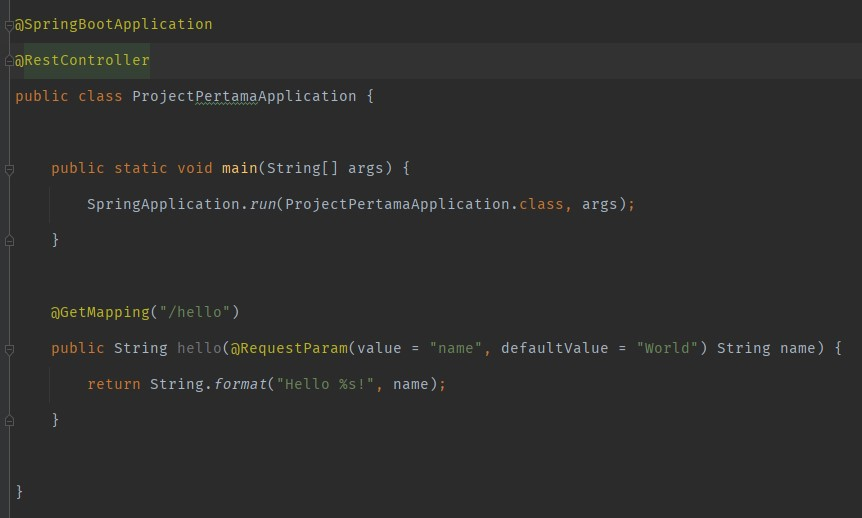
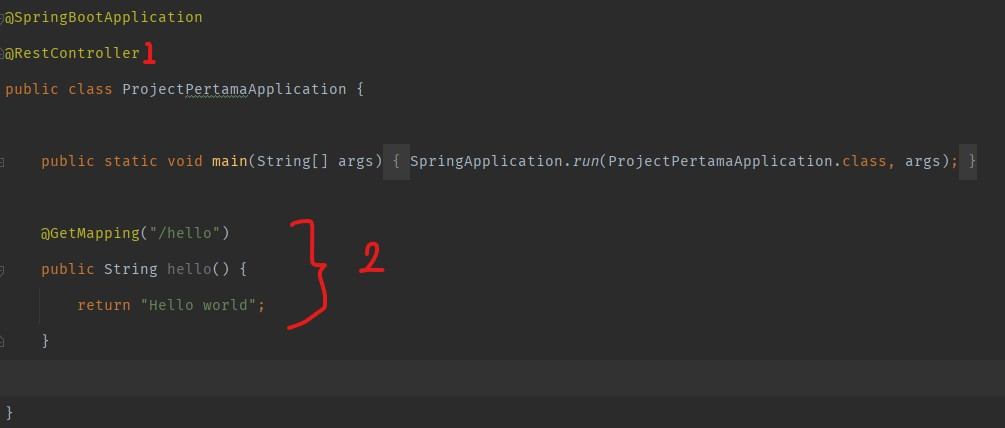
update post: installasi dan persiapan spring boot

diff --git a/_posts/2022-10-07-installasi-dan-persiapan-spring-boot.md b/_posts/2022-10-07-installasi-dan-persiapan-spring-boot.md
@@ -82,7 +82,9 @@ Karena Spring Boot berjalan di atas JVM, maka terlebih dahulu kita harus mengins
 
 7. Cek apakah JDK sudah berhasil diinstall. Buka terminal windows, kemudian ketikkan perintah berikut:
 
-   `java --version`
+   ```
+   java --version
+   ```
 
    ![Cek JDK version](/images/2022-10-07/test-jdk-installation.jpg)
 
@@ -106,7 +108,9 @@ Maven merupakan salah satu build tools yang sangat populer. Tool ini banyak digu
 
 4. Cek apakah Maven sudah berhasil diinstall.
 
-   `mvn --version`
+   ```
+   mvn --version
+   ```
 
    ![Cek Maven version](/images/2022-10-07/test-maven-installation.jpg)
 
@@ -128,21 +132,33 @@ Spring telah menyediakan sebuah web utility untuk mengenerate project.
 
    ![Open Project](/images/2022-10-07/open-project.jpg)
 
-4. Buka file **ProjectPertamaApplication.java** pada folder **\src\main\java\io\github\dedeirwanto**. Tambahkan kode berikut:
+4. Buka file **ProjectPertamaApplication.java** pada folder **\src\main\java\io\github\dedeirwanto**.
+   Tambahkan kode berikut sebelum **public class**:
 
-   `@GetMapping("/hello")`
+   ```
+   @RestController
+   ```
 
-   `public String hello(@RequestParam(value = "name", defaultValue = "World") String name) {`
+   Tambahkan kode berikut sesudah **public static void**:
 
-   > `return String.format("Hello %s!", name);`
+   ```
+   @GetMapping("/hello")
+   public String hello() {
+      return "Hello world";
+   }
+   ```
 
-   `}`
+   Kurang lebih potongan kode di atas seperti gambar berikut:
 
    ![Add Code Hello](/images/2022-10-07/add-code-hello.jpg)
 
+   Pembahasan mengenai fungsi kode di atas akan dibahas pada bab tersendiri nanti.
+
 5. Jalankan Spring Boot.
 
-   `mvnw spring-boot:run`
+   ```
+   mvn spring-boot:run
+   ```
 
    ![Run Spring Boot](/images/2022-10-07/run-spring-boot.jpg)
 
